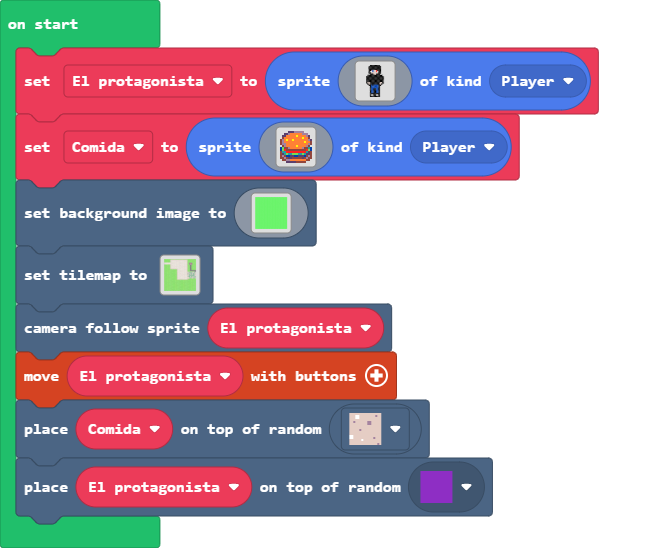
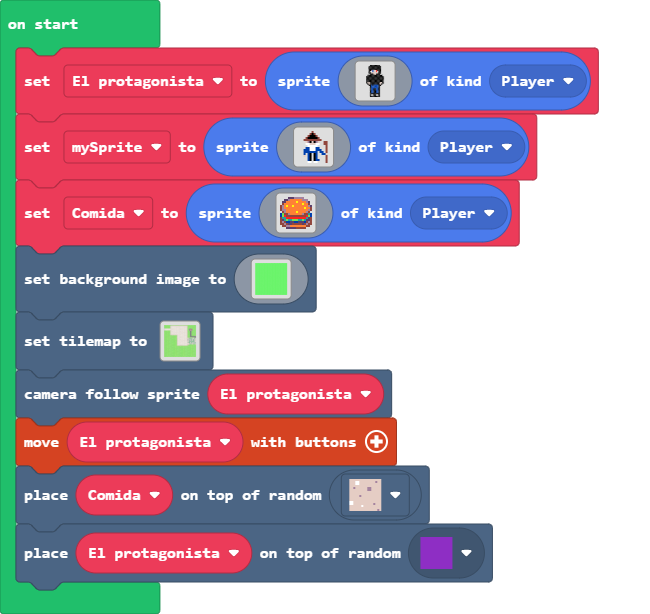
Update main.blocks, main.ts, tilemap.g.jres, tilemap.g.ts

diff --git a/tilemap.g.ts b/tilemap.g.ts
@@ -148,6 +148,25 @@ namespace myTiles {
 . . . . . . . . . . . . . . . . 
 . . . . . . . . . . . . . . . . 
 `, [myTiles.transparency16], TileScale.Sixteen);
+            case "level4":
+            case "level4":return tiles.createTilemap(hex`1000100000000000000000000000000000000000000000000000000000000000000000000000000000000000000000000000000000000000000000000000000000000000000000000000000000000000000000000000000000000000000000000000000000000000000000000000000000000000000000000000000000000000000000000000000000000000000000000000000000000000000000000000000000000000000000000000000000000000000000000000000000000000000000000000000000000000000000000000000000000000000000000000000000000000000000000000000000000000000000000000000000000000000000000000000000000000`, img`
+. . . . . . . . . . . . . . . . 
+. . . . . . . . . . . . . . . . 
+. . . . . . . . . . . . . . . . 
+. . . . . . . . . . . . . . . . 
+. . . . . . . . . . . . . . . . 
+. . . . . . . . . . . . . . . . 
+. . . . . . . . . . . . . . . . 
+. . . . . . . . . . . . . . . . 
+. . . . . . . . . . . . . . . . 
+. . . . . . . . . . . . . . . . 
+. . . . . . . . . . . . . . . . 
+. . . . . . . . . . . . . . . . 
+. . . . . . . . . . . . . . . . 
+. . . . . . . . . . . . . . . . 
+. . . . . . . . . . . . . . . . 
+. . . . . . . . . . . . . . . . 
+`, [myTiles.transparency16], TileScale.Sixteen);
         }
         return null;
     })

diff --git a/main.ts b/main.ts
@@ -26,6 +26,24 @@ let El_protagonista = sprites.create(img`
     ....f11ff11f....
     ....ffffffff....
     `, SpriteKind.Player)
+let mySprite = sprites.create(img`
+    . . . . . . . e . . . . . . . . 
+    . . . . . . e f e . . . . . . . 
+    . . . . . e f f f e . . . . . . 
+    . . . . e f f f f f e . . . . . 
+    . . . e e e e e e e e e . . . . 
+    . . . . d b f d f b d . . e e . 
+    . . . . 1 1 d d d 1 1 . . e e . 
+    . . . . . 1 1 1 1 1 . . . . e . 
+    . . . . 8 8 1 1 1 8 8 . . . e . 
+    . . . 8 8 8 1 1 1 8 8 8 . . e . 
+    . . . 8 8 8 8 8 8 8 . 8 8 . e . 
+    . . . 8 . 8 f . f 8 . . 8 8 d . 
+    . . . d . 8 f . f 8 . . . . e . 
+    . . . . . 8 f . f 8 . . . . e . 
+    . . . . . 8 f . f 8 8 . . . e . 
+    . . . . . 1 1 . 1 1 . . . . e . 
+    `, SpriteKind.Player)
 let Comida = sprites.create(img`
     . . . . c c c b b b b b . . . . 
     . . c c b 4 4 4 4 4 4 b b b . . 
